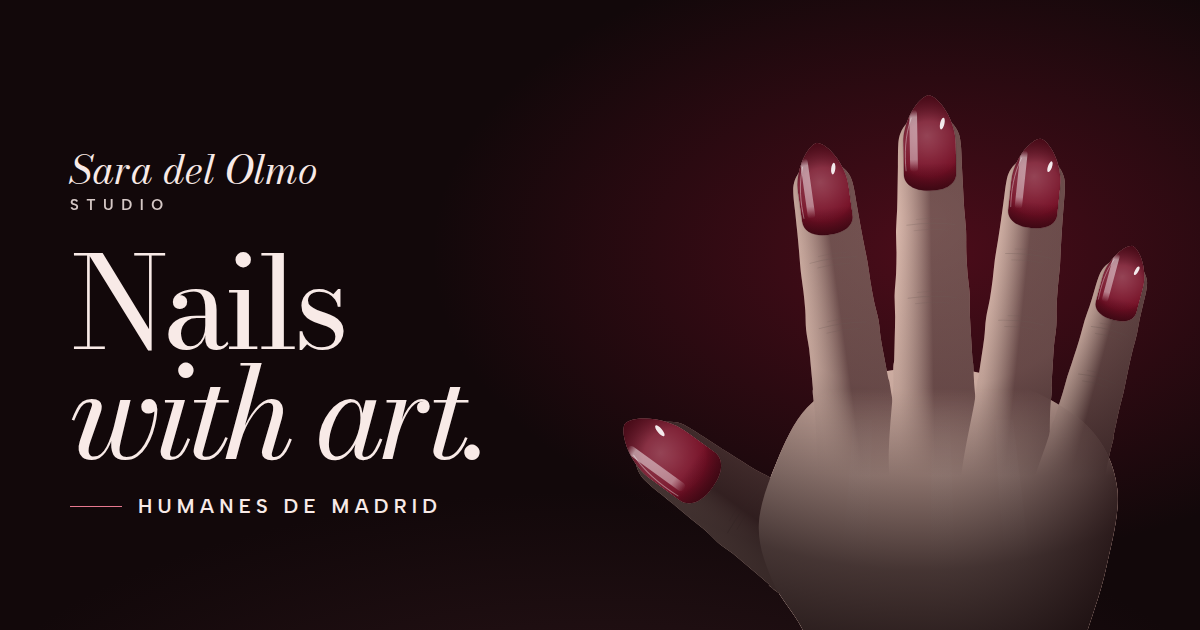
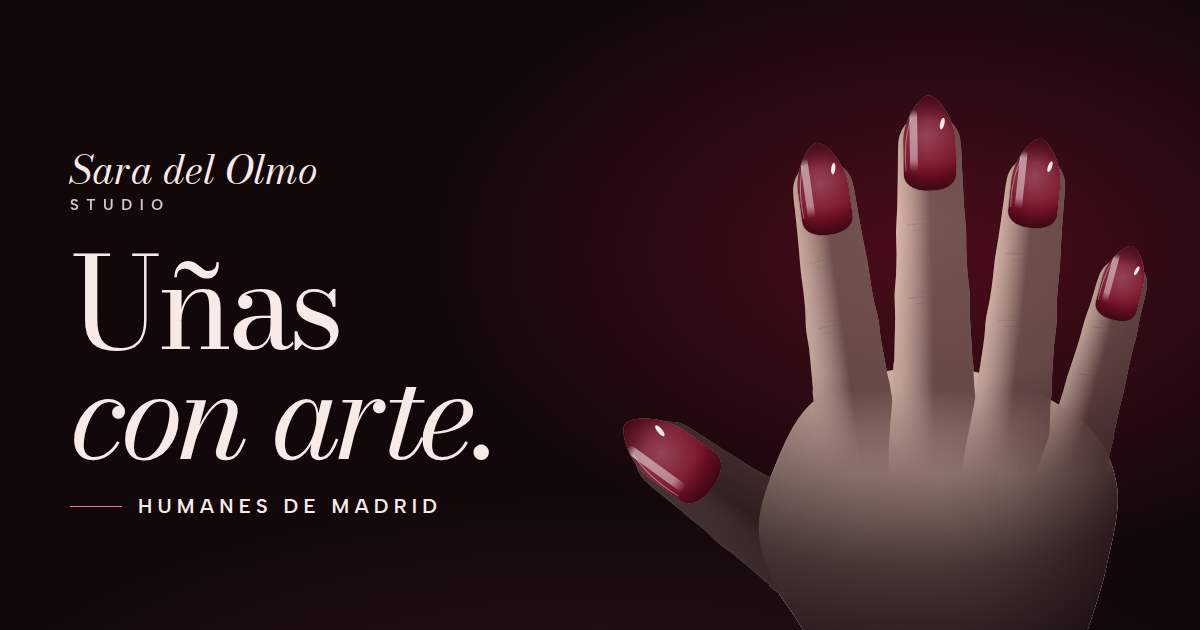
copy(sara-del-olmo-studio): todos los textos de la web en español
Uñas con arte · Cada detalle importa · De las manos a los pies · Detrás de la belleza ·
Hazlo tuyo · Mira el trabajo · Ahora, hazlo tuyo. También en la imagen para redes y en los docs.

Claude-Session: https://claude.ai/code/session_01MSoyvBy1Qat7osD9JJKV1H

Changed region(s): [[0.0617, 0.3921, 0.4317, 0.754]]

diff --git a/sara-del-olmo-studio/src/templates/sections-a.js b/sara-del-olmo-studio/src/templates/sections-a.js
@@ -24,7 +24,7 @@ export function hero() {
     </svg>
     <div class="hero__copy">
       <p class="lockup"><span class="lockup__name">Sara del Olmo</span><span class="lockup__sub">Studio</span></p>
-      <h1 class="hero__title"><span class="sr-only">Sara del Olmo Studio: uñas, manicura, pedicura, cejas y piercing en Humanes de Madrid. </span><span class="hl" aria-hidden="true"><span>Nails</span></span><span class="hl" aria-hidden="true"><span>with art.</span></span></h1>
+      <h1 class="hero__title"><span class="sr-only">Sara del Olmo Studio: uñas, manicura, pedicura, cejas y piercing en Humanes de Madrid. </span>${c.titleLines.map((l) => `<span class="hl" aria-hidden="true"><span>${esc(l)}</span></span>`).join('')}</h1>
       <p class="hero__place"><span class="hero__rule" aria-hidden="true"></span>${esc(c.place)}<span class="hero__tag">${esc(c.tagline)}</span></p>
       <div class="hero__cta">${nailBtn({ label: c.cta, attrs: bookAttrs('hero'), cls: 'btn-nail--lg' })}
         <p class="hero__proof"><svg aria-hidden="true" focusable="false"><use href="#i-star"/></svg><span><strong>${esc(r.value.toLocaleString('es-ES', { minimumFractionDigits: 1 }))}</strong> · ${r.count} reseñas en ${esc(r.source)}</span></p></div>
@@ -138,7 +138,7 @@ export function pies() {
     </svg>
     <div class="pies__copy">
       ${kicker(c.kicker)}
-      <h2 class="mega mega--md" id="h-pies"><span class="pies__t1">From hands</span> <span class="pies__t2">to feet.</span></h2>
+      <h2 class="mega mega--md" id="h-pies"><span class="pies__t1">${esc(c.titleLines[0])}</span> <span class="pies__t2">${esc(c.titleLines[1])}</span></h2>
       <p class="lead pies__lead">${esc(c.lead)}</p>
       <ul class="mini-list">${list.map((s) => `<li><button type="button" data-open-svc="${s.id}"><span class="mini-list__n">${esc(s.name)}${s.star ? ' <em>favorito</em>' : ''}</span><span class="mini-list__p">${priceHtml(s)}</span></button></li>`).join('')}</ul>
       <div class="btn-row pies__cta"><a class="btn btn--solid" href="#tarifas" data-cat-link="pies" data-track="service_view" data-loc="pies">${esc(c.cta)}</a>

diff --git a/sara-del-olmo-studio/src/data/copy.js b/sara-del-olmo-studio/src/data/copy.js
@@ -3,17 +3,18 @@
  * aquí solo hay voz editorial. Cambiar un texto no requiere tocar el código visual.
  */
 export const COPY = {
-  concept: 'From nail to art.',
-  everyDetail: 'Every detail matters.',
+  concept: 'De la uña al arte.',
+  everyDetail: 'Cada detalle importa.',
 
   hero: {
-    title: 'Nails with art.',
+    title: 'Uñas con arte.',
+    titleLines: ['Uñas', 'con arte.'],
     place: 'Humanes de Madrid',
     tagline: 'Manicura · Pedicura · Cejas · Piercing',
     cta: 'Pedir cita',
     scroll: 'Desliza para entrar',
     captions: [
-      { at: 0.17, text: 'Every detail matters.' },
+      { at: 0.17, text: 'Cada detalle importa.' },
       { at: 0.46, text: 'Textura. Brillo. Reflejo.' },
       { at: 0.76, text: 'Color.' },
     ],
@@ -38,7 +39,8 @@ export const COPY = {
 
   pies: {
     kicker: '03 · Pies',
-    title: 'From hands to feet.',
+    title: 'De las manos a los pies.',
+    titleLines: ['De las manos', 'a los pies.'],
     lead: 'La misma atención al detalle, de la punta de los dedos a los pies.',
     cta: 'Descubrir pedicura',
   },
@@ -80,7 +82,7 @@ export const COPY = {
 
   about: {
     kicker: 'Nosotras',
-    title: 'Behind the beauty.',
+    title: 'Detrás de la belleza.',
     lead: 'Seis personas, cada una con su especialidad.',
     cta: 'Conoce nuestros servicios',
   },
@@ -115,7 +117,7 @@ export const COPY = {
 
   events: {
     kicker: 'Eventos',
-    title: 'Make it yours.',
+    title: 'Hazlo tuyo.',
     lead: 'Bodas, despedidas, cumpleaños o un día de amigas: cuéntanos el plan y lo preparamos juntas.',
     occasions: ['Bodas', 'Despedidas', 'Cumpleaños', 'Grupos'],
     cta: 'Organiza tu experiencia',
@@ -123,7 +125,7 @@ export const COPY = {
 
   instagram: {
     kicker: 'Instagram',
-    title: 'See the work.',
+    title: 'Mira el trabajo.',
     lead: 'Trabajos reales del estudio, cuando se publican.',
   },
 
@@ -134,7 +136,7 @@ export const COPY = {
   },
 
   final: {
-    title: 'Now make it yours.',
+    title: 'Ahora, hazlo tuyo.',
     place: 'Humanes de Madrid',
     cta: 'Pedir cita',
   },

diff --git a/sara-del-olmo-studio/src/css/scenes.css b/sara-del-olmo-studio/src/css/scenes.css
@@ -63,7 +63,7 @@
 .pies__copy { position: absolute; z-index: 3; left: var(--gutter); top: 50%; transform: translateY(-50%); max-width: min(540px, 46vw); }
 .scene--pies .kicker { color: var(--pies-ink-2); }
 .scene--pies .lead { color: var(--pies-ink-2); }
-.pies__copy .mega--md { font-size: clamp(2.8rem, 6.1vw, 6rem); }
+.pies__copy .mega--md { font-size: clamp(2.6rem, 5.4vw, 5.4rem); }
 .pies__t1, .pies__t2 { display: block; }
 .pies__t2 { font-style: italic; }
 .pies__lead { color: var(--pies-ink-2) !important; margin: 18px 0 22px; }

diff --git a/sara-del-olmo-studio/src/js/scenes/final.js b/sara-del-olmo-studio/src/js/scenes/final.js
@@ -1,6 +1,6 @@
 /**
  * ACTO FINAL · RESERVA. La cámara vuelve a acercarse a una uña: ahora es la TUYA (el look que has diseñado),
- * en una mano terminada. La luz recorre la superficie, la cámara se aleja y aparece «Now make it yours.»
+ * en una mano terminada. La luz recorre la superficie, la cámara se aleja y aparece «Ahora, hazlo tuyo.»
  * con el CTA definitivo hacia Booksy.
  */
 import { registerScene } from '../lib/scene.js';

diff --git a/sara-del-olmo-studio/src/data/media.js b/sara-del-olmo-studio/src/data/media.js
@@ -22,7 +22,7 @@ export const STUDIO_PHOTOS = [
 ];
 
 /**
- * Trabajos reales para «See the work». Vacío = se muestran huecos pendientes.
+ * Trabajos reales para «Mira el trabajo». Vacío = se muestran huecos pendientes.
  * Cada entrada: { file: 'trabajo-01', alt: 'Descripción', href: 'https://www.instagram.com/p/XXXX/' }
  */
 export const INSTAGRAM_POSTS = [];

diff --git a/sara-del-olmo-studio/DISENO.md b/sara-del-olmo-studio/DISENO.md
@@ -1,6 +1,6 @@
 # Sara del Olmo Studio · Dossier creativo
 
-> «From nail to art.» Una película interactiva en la que el scroll es la cámara.
+> «De la uña al arte.» (*From nail to art*) Una película interactiva en la que el scroll es la cámara.
 
 Este documento recoge lo que pedía el encargo antes de construir: concepto, arquitectura, storyboard del scroll,
 dirección visual, sistema de animaciones y estrategia de conversión.
@@ -9,22 +9,22 @@ dirección visual, sistema de animaciones y estrategia de conversión.
 
 ## 1. Concepto creativo
 
-**Idea madre: FROM NAIL TO ART.** La uña no es un adorno de la página: es el portal.
+**Idea madre: DE LA UÑA AL ARTE.** La uña no es un adorno de la página: es el portal.
 El visitante empieza mirando una uña lacada, hace scroll, la cámara se acerca hasta *entrar en el esmalte*
 y al otro lado descubre el universo del estudio (manos, pies, cejas, piercing, el equipo, las clientas) hasta
-volver a una mano terminada que le dice: **«Now make it yours.»** y le lleva a reservar.
+volver a una mano terminada que le dice: **«Ahora, hazlo tuyo.»** y le lleva a reservar.
 
-Hilo conductor, en voz alta, a lo largo del viaje:
+Hilo conductor, en voz alta, a lo largo del viaje (todo el texto de la web está en español; el brief original usaba estas frases en inglés):
 
 | Frase | Dónde vive |
 |---|---|
-| **Nails with art.** | Portada |
-| **Every detail matters.** | Primer acercamiento de la cámara (el concepto: detalle, cuidado, personalización) |
-| **From hands to feet.** | Transición a pedicura |
-| **Behind the beauty.** | El equipo |
-| **Make it yours.** | Eventos |
-| **See the work.** | Instagram |
-| **Now make it yours.** | Final · reserva |
+| **Uñas con arte.** | Portada |
+| **Cada detalle importa.** | Primer acercamiento de la cámara (el concepto: detalle, cuidado, personalización) |
+| **De las manos a los pies.** | Transición a pedicura |
+| **Detrás de la belleza.** | El equipo |
+| **Hazlo tuyo.** | Eventos |
+| **Mira el trabajo.** | Instagram |
+| **Ahora, hazlo tuyo.** | Final · reserva |
 
 El **look que elige la clienta** viaja con ella: el color que diseña en «Diseña tu look» inunda la pantalla de los pies
 y es el esmalte de la mano terminada del final. La película es suya.
@@ -69,8 +69,8 @@ el resto son secciones normales con interacción propia (diseñador, tarifas, va
 
 | Scroll | Cámara | Qué ocurre |
 |---|---|---|
-| 0 % | Mano completa | Surge de la oscuridad, destellos en las uñas, aparece el logo, «Nails with art.», Humanes de Madrid y el CTA «Pedir cita» (con forma de uña lacada) |
-| 15 % | Las uñas | «Every detail matters.» |
+| 0 % | Mano completa | Surge de la oscuridad, destellos en las uñas, aparece el logo, «Uñas con arte.», Humanes de Madrid y el CTA «Pedir cita» (con forma de uña lacada) |
+| 15 % | Las uñas | «Cada detalle importa.» |
 | 30 % | Una uña llena la pantalla | El dibujo vectorial sigue nítido a cualquier zoom |
 | 45 % | Textura y brillo | Relevo al **shader de esmalte líquido** (WebGL): reflejos, micro-textura, luz |
 | 60 % | Más cerca | «Textura. Brillo. Reflejo.» |
@@ -82,12 +82,12 @@ el resto son secciones normales con interacción propia (diseñador, tarifas, va
 
 | Escena | Secuencia |
 |---|---|
-| **Pies** (360 %) | La cámara está dentro de la uña de tu look → se aleja: uña → dedo → pie → los dos pies. Aparece «From hands to feet.» y los 6 servicios reales. Al final la pantalla se oscurece. |
+| **Pies** (360 %) | La cámara está dentro de la uña de tu look → se aleja: uña → dedo → pie → los dos pies. Aparece «De las manos a los pies.» y los 6 servicios reales. Al final la pantalla se oscurece. |
 | **Cejas** (420 %) | Oscuridad → una línea se dibuja desde el centro → se transforma en dos cejas simétricas → guías de medida, ojos, puntos clave (precisión) → la cámara se acerca → el pigmento «sombreado» se asienta → texto y precios. |
 | **Piercing** (440 %) | La línea de la ceja se recoge hasta su punta → destello metálico → **joya de titanio facetada que gira con el scroll** → vuela a una oreja → composición de joyas que aparecen una a una → Precisión · Estilo · Seguridad. |
 | **Seguridad** (340 %) | Un escáner barre la pantalla y deja un fondo clínico → por cada elemento: se dibuja un instrumental, una línea lo rodea y se transforma en icono (Esterilización · Protección · Materiales de calidad). |
 | **Estudio** (240 %) | La cámara está dentro de la primera foto y se aleja hasta mostrar el estudio entero; después, galería horizontal arrastrable (ratón con inercia, dedo, flechas y teclado). |
-| **Final** (460 %) | Macro de una uña (la tuya) con la luz recorriéndola → la cámara se aleja a la mano terminada → «Now make it yours.» → SARA DEL OLMO STUDIO / Humanes de Madrid → **PEDIR CITA** (Booksy). |
+| **Final** (460 %) | Macro de una uña (la tuya) con la luz recorriéndola → la cámara se aleja a la mano terminada → «Ahora, hazlo tuyo.» → SARA DEL OLMO STUDIO / Humanes de Madrid → **PEDIR CITA** (Booksy). |
 
 Momentos WOW: ① la cámara entra en la uña · ② el esmalte se vuelve un universo de color · ③ la uña se diseña en tiempo real ·
 ④ la línea de la ceja se convierte en una joya · ⑤ la cámara vuelve a la mano terminada y aparece el CTA.

diff --git a/sara-del-olmo-studio/README.md b/sara-del-olmo-studio/README.md
@@ -1,6 +1,6 @@
 # Sara del Olmo Studio · Web inmersiva
 
-Web one-page con **scrolltelling real** («From nail to art»): el scroll controla una cámara que entra en una uña, atraviesa el esmalte
+Web one-page con **scrolltelling real** («De la uña al arte»): el scroll controla una cámara que entra en una uña, atraviesa el esmalte
 y recorre manos, pies, cejas y piercing hasta la reserva en Booksy. Vanilla JS + CSS (sin framework), SEO local, analítica preparada
 y un único fichero de datos por tema para que Sara pueda cambiar lo que quiera.
 
